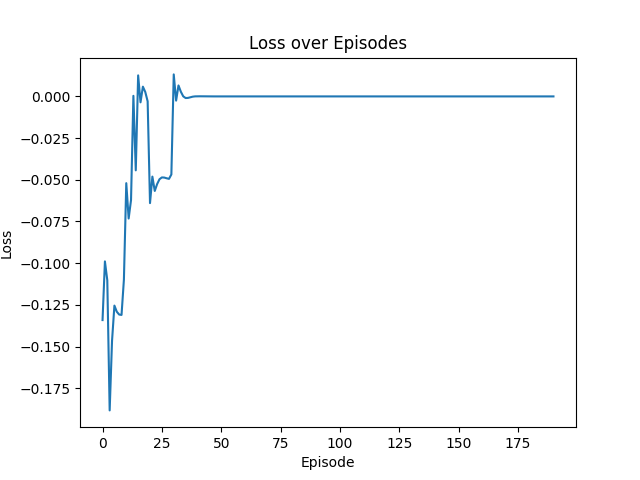
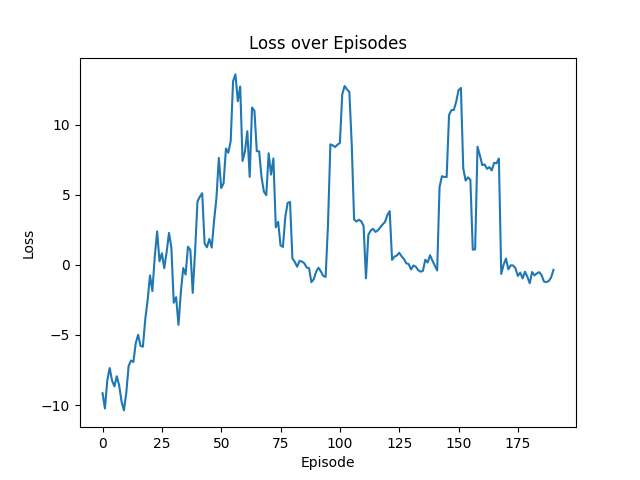
框架弃用之前定义的env，转向使用gym的环境
保留environments文件夹，但是本框架的env只使用gym已经写好的离散动作空间的环境，全面适配gym。

diff --git a/algorithms/ppo/runner.py b/algorithms/ppo/runner.py
@@ -9,7 +9,7 @@ def smooth(input, window_size=10):
 	return smoothed_input
 
 def ppo_runner(env,args):
-    state_dim = env.observation_space.n
+    state_dim = env.observation_space.shape[0]
     action_dim = env.action_space.n
     agent = Agent(state_dim,action_dim,args)
     train_path = "./train_results/ppo/"
@@ -29,7 +29,7 @@ def train(env,agent,args):
     losses_critic = []
     episodes = int(args['episodes'])
     for ep in tqdm(range(episodes)):
-        state = env.reset()
+        state,info = env.reset()
         if args['render']:
             env.render()
         done = False
@@ -38,7 +38,8 @@ def train(env,agent,args):
         loss_c = 0
         while not done:
             action, action_prob = agent.select_action(state)
-            next_state, reward, done, _ = env.step(action)
+            next_state, reward, terminated, truncated, info = env.step(action)
+            done = terminated or truncated
             if args['render']:
                 env.render()
             agent.memory(state, action, action_prob, reward, next_state)
@@ -106,8 +107,7 @@ def test(env,agent,args):
     episodes = int(args['test_episodes'])
     for ep in tqdm(range(episodes)):
         state = env.reset()
-        if args['render']:
-            env.render()
+
         done = False
         total_rewards = 0
         while not done:

diff --git a/main.py b/main.py
@@ -3,11 +3,7 @@ from algorithms.dqn.runner import dqn_runner
 from algorithms.ddpg.runner import ddpg_runner
 from algorithms.ppo.runner import ppo_runner
 from algorithms.sac.runner import sac_runner
-
-from environments.maze_env import mazeEnv
-from environments.chip_env import chipEnv
-from environments.medication_env import medicationEnv
-
+import gymnasium as gym
 import yaml
 
 def load_config(yaml_file_path):
@@ -22,14 +18,7 @@ if __name__ == '__main__':
     args = load_config('./configs/ppo_maze_config.yaml')
     # args = load_config('./configs/sac_maze_config.yaml')
 
-    if args["env"] == "mazeEnv":
-        env = mazeEnv(args)  # 创建迷宫环境
-    elif args["env"] == "medicationEnv":
-        env = medicationEnv(args)
-    elif args["env"] == "chipEnv":
-        env = chipEnv(args)
-    else:
-        raise ValueError("请指定正确的环境")
+    env = gym.make('CartPole-v1',render_mode='human')
 
     if args["algo"] == "dqn":
         dqn_runner(env, args)
